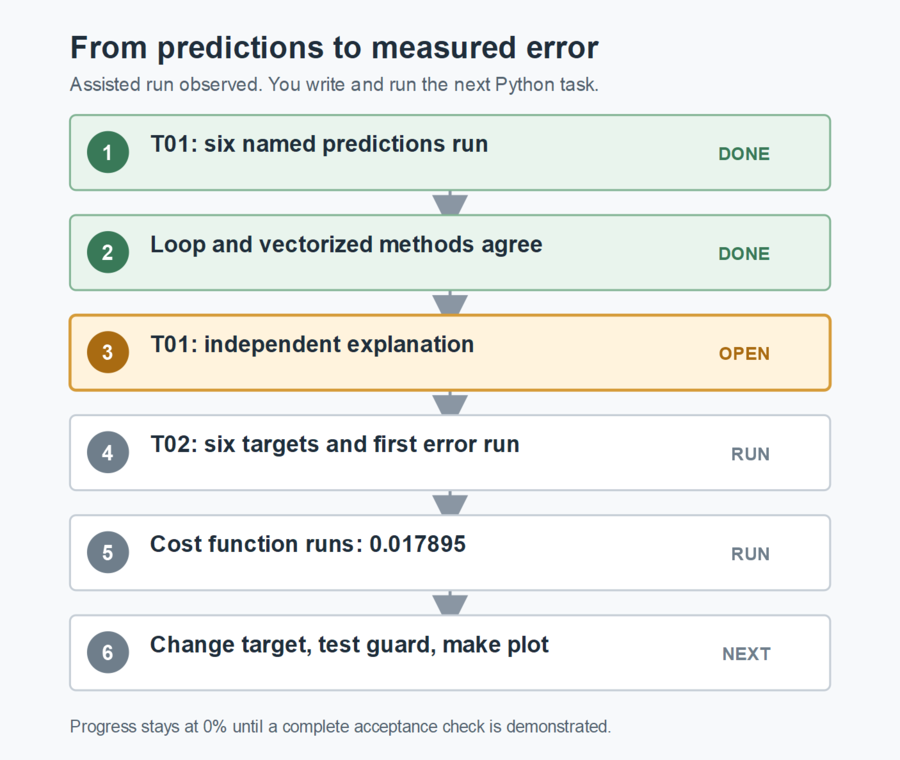
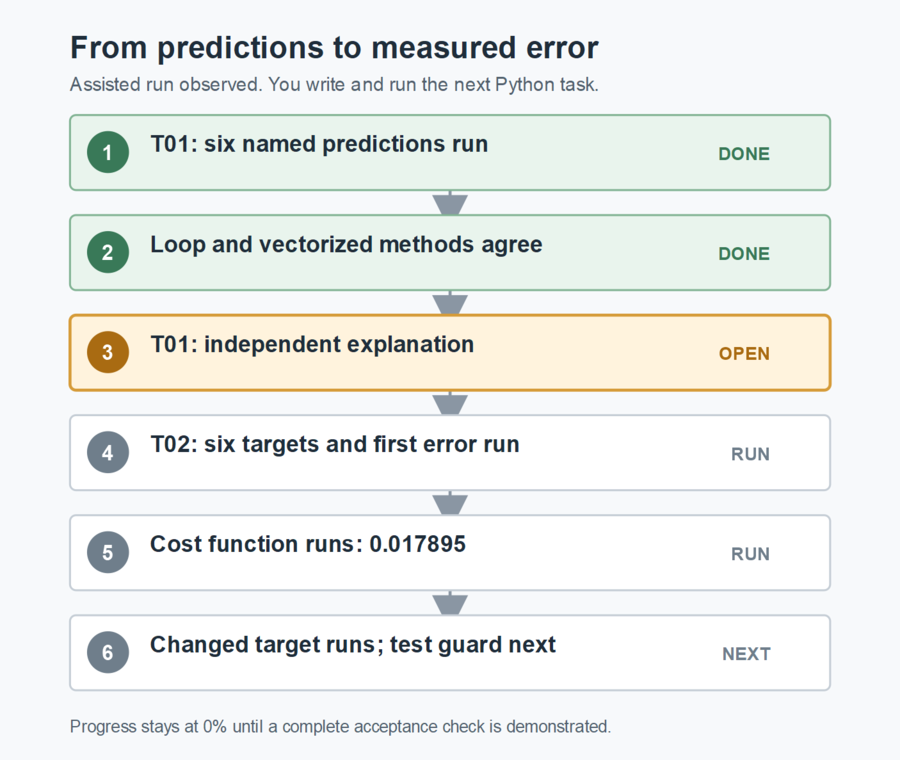
Record changed-target cost learning checkpoint

Changed region(s): [[0.2489, 0.8171, 0.6222, 0.8776]]

diff --git a/00_CURRENT_CONTEXT.md b/00_CURRENT_CONTEXT.md
@@ -18,13 +18,13 @@ This is the compact mentor resumption note for `D:\ML-project`. The learner work
 - Mentor Mode: active; follow [MENTOR_MODE.md](MENTOR_MODE.md).
 - Phase: P00, C1W2 first-principles valuation engine.
 - Goal: [ML-G01 - C1W2 Valuation Stretch Foundation](Goals/ML-G01%20-%20C1W2%20Valuation%20Stretch%20Foundation/GOAL.md).
-- Active teaching task: [ML-G01-T02 - Cost and Residuals](Goals/ML-G01%20-%20C1W2%20Valuation%20Stretch%20Foundation/T02%20-%20Cost%20and%20Residuals.md). The learner's baseline six-row cost and named residuals have run; see [the T02 session](Journey/2026-09-29-ML-G01-T02.md). Changed-target and guard tests are next.
+- Active teaching task: [ML-G01-T02 - Cost and Residuals](Goals/ML-G01%20-%20C1W2%20Valuation%20Stretch%20Foundation/T02%20-%20Cost%20and%20Residuals.md). Baseline cost and named residuals plus the copied CobaltAI target change have run; see [the T02 session](Journey/2026-09-29-ML-G01-T02.md). Sign/formula explanation and the guard test are next.
 - Earlier open task: [ML-G01-T01 - Vectorized Prediction](Goals/ML-G01%20-%20C1W2%20Valuation%20Stretch%20Foundation/T01%20-%20Vectorized%20Prediction.md). The saved script produced six named predictions and `Methods agree: True`; independent explanation and transfer remain open. Details are in [the T01 session](Journey/2026-09-28-ML-G01-T01.md).
 - Learner lesson and next-action page: [LEARNING_MANUAL.md](LEARNING_MANUAL.md). Keep its current step and diagram aligned with this note and the progress ledger.
 - Progress: T01 0%, T02 0%, phase 0%, overall 0% because no full explained acceptance check is closed; canonical ledger: [PROGRESS.md](PROGRESS.md).
 - Assistance debt: T01 functions and guard, and T02's baseline cost function, received exact first-pass teaching. Each needs independent transfer before closure.
 - Course coverage: Machine Learning Specialization C1W1 and C1W2 completed, learner-reported. C1W3 has not been confirmed. P00 uses C1W1 prediction, cost, and gradient descent as well as C1W2 methods. Later methods may be introduced early with a first-principles explanation, a bounded task, and a learner understanding check; this does not mark a course week or project capability complete.
-- Next action: ask for the AstraCompute hand explanation and a sentence on what cost `0.017894916666666653` measures. Teach `.copy()` on unrelated delivery-time data, then have the learner independently change only CobaltAI's synthetic observed value from `2.400` to `2.200` in a copied array, predict the residual/cost direction, run, and confirm the original array is intact. Teach slicing on unrelated data before a deliberately short observed-array call that should trigger the guard. A labeled residual plot and independent transfer follow. T03 gradients and a cost curve follow T02. Do not silently write assignment code.
+- Next action: correct the learner's idea that AstraCompute's positive residual comes from a negative feature: the prediction `2.687` is below the target `2.800`, so subtraction order determines the signs. Explain `J = sum(error^2)/(2m)` as half the mean squared error using an unrelated two-row example; ask for a short restatement. Then teach slicing on unrelated data before a deliberately short observed-array call that should trigger the guard. A labeled residual plot and independent transfer follow. T03 gradients and a cost curve follow T02. Do not silently write assignment code.
 
 ## Current research target
 
@@ -77,4 +77,4 @@ The cross-phase [software engineering path](ENGINEERING_LEARNING_PATH.md) now in
 
 ## Evidence state
 
-The learner's guarded loop and vectorized functions produced the same six named values in the saved script, including AstraCompute `2.6870000000000003` (ordinary floating-point rounding), and `Methods agree: True`. Changed-input and intentional shape-failure runs were also observed. This remains assisted T01 evidence with independent transfer and interpretation open. T02's saved arrays both have shape `(6,)`; the first error `-0.113`, squared error `0.012769`, residual `+0.113`, six-row cost `0.017894916666666653`, and six named residuals reran correctly. This is assisted baseline evidence. The learner has not yet supplied a hand explanation, changed-target run, guard failure, or plot. After each meaningful learner attempt, update the task and progress record, then refresh this note last.
+The learner's guarded loop and vectorized functions produced the same six named values in the saved script, including AstraCompute `2.6870000000000003` (ordinary floating-point rounding), and `Methods agree: True`. Changed-input and intentional shape-failure runs were also observed. This remains assisted T01 evidence with independent transfer and interpretation open. T02's saved arrays have shape `(6,)`; first error `-0.113`, squared error `0.012769`, residual `+0.113`, six-row cost `0.017894916666666653`, and six named residuals reran correctly. A copied CobaltAI target change preserved original `2.4`, reduced its residual to about `+0.168`, and reduced cost to `0.008961583333333334`. The learner offered an incorrect feature-sign explanation and asked what the denominator means; these require teaching and recheck. Guard failure, plot, and independent transfer remain open. After each meaningful learner attempt, update the task and progress record, then refresh this note last.

diff --git a/LEARNING_MANUAL.md b/LEARNING_MANUAL.md
@@ -10,8 +10,8 @@ This is the one document to read and work from. It grows as you build the projec
 | Project | P00, first-principles valuation-stretch foundation |
 | Active task | ML-G01-T02: cost and residuals; T01 independent transfer remains open |
 | Correct so far | T01 guarded loop and vectorized functions agree on all six named company predictions; changed-input and shape-failure runs observed |
-| Still to demonstrate | T01 independent explanation; T02 hand explanation, changed-target run, guard failure, plot, and transfer |
-| Code | T01 named-output script runs; T02 baseline cost and named residual table now run |
+| Still to demonstrate | T01 independent explanation; T02 sign and cost explanation, guard failure, plot, and transfer |
+| Code | T01 named-output script runs; T02 baseline and copied changed-target runs now work |
 | Evidence-backed progress | T01 0%, T02 0%, P00 0%, overall 0%; successful assisted runs are not independent mastery |
 
 ![Current learning flow from prediction to cost and residuals](Visuals/current_lesson_flow.png)
@@ -35,6 +35,8 @@ A delivery model predicts 8 and 10 minutes; the actual times are 9 and 7 minutes
 
 The C1W1 cost is the sum of squared errors divided by twice the number of rows: `J = (1 + 9) / (2 * 2) = 2.5`. Squaring makes both misses positive and gives a large miss more influence. The signed residual answers a different question: which side of the prediction was the actual value on? A positive valuation residual means observed valuation was above the model's estimate, not that the company is in a bubble.
 
+The **mean squared error** for those two deliveries would be `(1 + 9) / 2 = 5`. The course cost is half of that: `5 / 2 = 2.5`. Dividing by the row count makes the scale comparable when the number of observations changes; the extra `2` is a mathematical convention that simplifies later gradient formulas. It does not erase error or change which weights minimize cost. Cost is nonnegative and has squared output units, so it is not itself a signed valuation gap.
+
 ## Your frozen inputs
 
 | Company | Trial prediction | Synthetic observed log multiple |
@@ -50,7 +52,7 @@ Use [02_cost_and_residuals.py](Projects/AI%20Capital%20Cycle%20Quantamental%20Re
 
 ## Do this now
 
-The two arrays run with shape `(6,)`. Your script prints AstraCompute's error `-0.11299999999999999`, squared error `0.012768999999999997`, and signed residual `0.11299999999999999`. Those are `-0.113`, `0.012769`, and `+0.113` at useful precision. Your function returns the six-row cost `0.017894916666666653`; the named residuals are approximately `+0.113`, `-0.176`, `+0.145`, `-0.073`, `+0.096`, and `+0.368`. Explain the first row and cost meaning in your own words; code execution alone does not show that understanding.
+The two arrays run with shape `(6,)`. Your script prints AstraCompute's error `-0.11299999999999999`, squared error `0.012768999999999997`, and signed residual `0.11299999999999999`. Those are `-0.113`, `0.012769`, and `+0.113` at useful precision. The sign comes from subtraction order: `2.687 - 2.800 = -0.113` versus `2.800 - 2.687 = +0.113`. It does not mean an AstraCompute feature is negative. Your function returns the six-row cost `0.017894916666666653`; the named residuals are approximately `+0.113`, `-0.176`, `+0.145`, `-0.073`, `+0.096`, and `+0.368`. Explain the first row and cost meaning in your own words after this correction; code execution alone does not show that understanding.
 
 **Next work block:** test whether the cost reacts correctly to changed data and whether the guard rejects a bad shape. First, an unrelated example of keeping an original array safe:
 
@@ -61,7 +63,7 @@ changed_minutes[0] = 10.0
 # actual_minutes is still [9.0, 7.0]; changed_minutes is [10.0, 7.0]
 ```
 
-`.copy()` makes a separate array. Without it, an in-place change would alter the frozen baseline too. In your finance script, make a copy of `observed`, change **only CobaltAI's observed value** from `2.400` to `2.200`, and predict whether its residual and the total cost rise or fall. Run the changed case and confirm that printing the original `observed` still shows `2.400` at CobaltAI's position. Next, pass one fewer observed value to `compute_cost` and show its `ValueError`; the mentor will explain array slicing on a different example before that edit. Then restore a clean baseline and make a labeled residual plot. You do not need to reopen other documents to follow this lesson.
+`.copy()` makes a separate array. Without it, an in-place change would alter the frozen baseline too. Your copied CobaltAI target changed from `2.400` to `2.200`; the original remained `2.400`. Its residual fell from about `+0.368` to `+0.168`, and total cost fell to `0.008961583333333334`. This makes sense because `2.200` is closer to the prediction `2.032`. Next, pass one fewer observed value to `compute_cost` and show its `ValueError`; the mentor will explain array slicing on a different example before that edit. Then restore a clean baseline and make a labeled residual plot. You do not need to reopen other documents to follow this lesson.
 
 T01's named output is a valid assisted run. Its explanation and independent transfer remain open, but they do not stop us from learning T02. Task credit follows demonstrated understanding, not how many scripts have been typed.
 

diff --git a/PROGRESS.md b/PROGRESS.md
@@ -13,7 +13,7 @@ Active phase: P00 - C1W2 first-principles valuation engine
 Active goal: ML-G01
 Active teaching task: ML-G01-T02 - Cost and residuals
 Open earlier task: ML-G01-T01 - Vectorized prediction
-Evidence state: T01 ASSISTED RUN OBSERVED; T01 EXPLANATION AND TRANSFER PENDING; T02 ASSISTED COST AND RESIDUAL RUN OBSERVED
+Evidence state: T01 ASSISTED RUN OBSERVED; T01 EXPLANATION AND TRANSFER PENDING; T02 CHANGED TARGET OBSERVED, EXPLANATION OPEN
 ```
 
 ## Progress summary
@@ -24,7 +24,7 @@ Phase P00        [--------------------]   0%
 Overall project  [--------------------]   0%
 ```
 
-The learner's guarded loop and vectorized prediction functions agree on all six named companies. The mentor reran the saved script and observed `Methods agree: True` with predictions `[2.687, 2.376, 2.955, 1.973, 2.004, 2.032]` (the first printed with ordinary floating-point rounding). A changed-input run and intentional four-weight failure were also observed. This was an assisted first pass; independent transfer and explanation remain open, so T01 earns no completed check yet. In T02, the learner's function returned cost `0.017894916666666653`, and six named residuals printed. Changed-target behavior, a failing guard, plot, and learner explanation are not yet observed.
+The learner's guarded loop and vectorized prediction functions agree on all six named companies. The mentor reran the saved script and observed `Methods agree: True` with predictions `[2.687, 2.376, 2.955, 1.973, 2.004, 2.032]` (the first printed with ordinary floating-point rounding). A changed-input run and intentional four-weight failure were also observed. This was an assisted first pass; independent transfer and explanation remain open, so T01 earns no completed check yet. In T02, the learner's function returned baseline cost `0.017894916666666653` and six named residuals. A copied CobaltAI target changed residual `+0.368` to `+0.168` and cost to `0.008961583333333334` without altering the original. The learner's sign and half-MSE explanation needs teaching; a failing guard and plot are not yet observed.
 
 The [software engineering path](ENGINEERING_LEARNING_PATH.md) is planned across these phases, from Python file structure through SQL, APIs, frontend work, and system design. It earns no separate completion credit from documentation; each phase will require observed engineering evidence at its own gate.
 
@@ -62,7 +62,7 @@ Overall completion is the sum of each phase weight multiplied by its evidence-ba
 | Task | Weight inside P00 | State | Completion | Evidence |
 |---|---:|---|---:|---|
 | ML-G01-T01 - Loop and vectorized prediction | 15% | open transfer | 0% | [named run; explanation pending](Journey/2026-09-28-ML-G01-T01.md) |
-| ML-G01-T02 - Cost function and residual meaning | 15% | in progress | 0% | [assisted baseline cost and residual run](Journey/2026-09-29-ML-G01-T02.md); transfer and explanation open |
+| ML-G01-T02 - Cost function and residual meaning | 15% | in progress | 0% | [baseline and changed-target runs](Journey/2026-09-29-ML-G01-T02.md); sign/formula explanation open |
 | ML-G01-T03 - Gradients and batch gradient descent | 20% | planned | 0% | planned |
 | ML-G01-T04 - Feature scaling and convergence | 15% | planned | 0% | planned |
 | ML-G01-T05 - Feature engineering and nonlinear terms | 15% | planned | 0% | planned |
@@ -96,4 +96,4 @@ If T01 reaches 100%, P00 gains 15 percentage points and the overall project gain
 
 ## Next milestone
 
-The frozen arrays, shape-checked cost function, and named residual table have run. Ask for the AstraCompute hand explanation and cost meaning. Next test a changed target and a length mismatch, then make the residual plot. Return to T01 for independent transfer and a short defense before closing it; neither task has earned mastery credit yet.
+The frozen arrays, shape-checked cost function, named residual table, and copied changed-target case have run. Teach the AstraCompute subtraction order and half-MSE denominator, then ask the learner to explain them. Next test a length mismatch, then make the residual plot. Return to T01 for independent transfer and a short defense before closing it; neither task has earned mastery credit yet.

diff --git a/Journey/2026-09-29-ML-G01-T02.md b/Journey/2026-09-29-ML-G01-T02.md
@@ -7,8 +7,10 @@
 - Rounded to three or six decimal places, these are `-0.113`, `0.012769`, and `+0.113`. The extra digits are floating-point representation, not a different economic result.
 - The learner then typed a shape-checked `compute_cost` function and a named residual table after an exact first-pass teaching example. Mentor reran the saved script. Cost printed `0.017894916666666653`. Residuals in company order were approximately `[+0.113, -0.176, +0.145, -0.073, +0.096, +0.368]`.
 - The function rejects non-one-dimensional inputs, unequal shapes, and empty arrays in code. These guards have not yet been tested with a failing call. The function and residual table are assisted implementation evidence, not independent transfer.
+- The learner copied `observed`, changed only CobaltAI's synthetic target from `2.400` to `2.200`, and reran the saved file. The original target still printed `2.4`; changed CobaltAI residual printed `0.16800000000000015`, and total cost fell to `0.008961583333333334`. Mentor reran the saved script and observed the same values. This is a successful changed-target run after a teaching example; the learner did not state a prediction of direction before posting the run.
+- The learner said AstraCompute's residual might be positive because an `x` feature is negative and said they did not understand the division in cost. This is a specific sign/formula misunderstanding. AstraCompute's prediction is below its target; the residual sign comes from `observed - predicted`, not a feature sign. The cost divides the sum of squared errors by `m` to average over rows and by `2` for the course's half-MSE convention. Explanation must be checked again after teaching.
 
 ## Meaning and next action
 
 - The code calculates `predicted - observed` for error and `observed - predicted` for residual. The run establishes baseline arithmetic and code execution, not a live valuation finding. The learner has not yet supplied the requested hand calculation or explained the residual sign and cost in their own words.
-- T02 remains at 0% because no complete explained acceptance check has passed. Next, copy the observed array, change one synthetic target, predict and inspect the effect on cost and that company's residual, then call the guard with a shorter array. Restore the baseline and later make a labeled residual plot. Independent transfer remains open.
+- T02 remains at 0% because no complete explained acceptance check has passed. Next, teach the sign and half-MSE meaning using a different example, then have the learner explain them and call the guard with a shorter array. A labeled residual plot and independent transfer remain open.

diff --git a/JOURNEY.md b/JOURNEY.md
@@ -29,6 +29,7 @@ This is the chronological record of decisions, attempts, evidence, and changes i
 | 2026-09-29 | [T01 named-output checkpoint](Journey/2026-09-28-ML-G01-T01.md): saved script reran with six company names and `Methods agree: True`; T02 cost and residuals opened for teaching. | Assisted T01 run; T02 has no learner run yet. |
 | 2026-09-29 | [T02 first-error checkpoint](Journey/2026-09-29-ML-G01-T02.md): learner's saved arrays both have shape `(6,)`; AstraCompute error, squared error, and residual reran correctly. | Assisted first-row arithmetic; hand explanation and full cost still open. |
 | 2026-09-29 | [T02 cost and residual checkpoint](Journey/2026-09-29-ML-G01-T02.md): learner's shape-checked function returned cost `0.017894916666666653`, and all six named residuals printed. | Assisted baseline run; changed-target, failure, plot, and explanation still open. |
+| 2026-09-29 | [T02 changed-target checkpoint](Journey/2026-09-29-ML-G01-T02.md): copied target left the baseline intact; CobaltAI residual and total cost both fell. A sign and cost-denominator misunderstanding surfaced. | Changed-target run observed; explanation, guard failure, plot, and transfer open. |
 
 The setup documents were prepared with mentor assistance. They are project planning, not learner-authored model code or proof of mastery.
 

diff --git a/Goals/ML-G01 - C1W2 Valuation Stretch Foundation/T02 - Cost and Residuals.md b/Goals/ML-G01 - C1W2 Valuation Stretch Foundation/T02 - Cost and Residuals.md
@@ -61,4 +61,4 @@ Use the empty `../../Projects/AI Capital Cycle Quantamental Research Engine/src/
 
 ## Current checkpoint
 
-Both frozen arrays and the first-row error, squared error, and residual were typed by the learner and rerun by the mentor. This was an assisted first pass; the learner's hand explanation, full cost, changed-target case, failure case, plot, and independent transfer remain open. See [the session record](../../Journey/2026-09-29-ML-G01-T02.md).
+The learner's baseline cost and six named residuals ran, as did a copied CobaltAI target change from `2.400` to `2.200`; the original target stayed intact and cost fell. This was an assisted first pass. The learner's sign and cost-denominator explanation needs correction and recheck; the failing guard call, plot, and independent transfer remain open. See [the session record](../../Journey/2026-09-29-ML-G01-T02.md).
